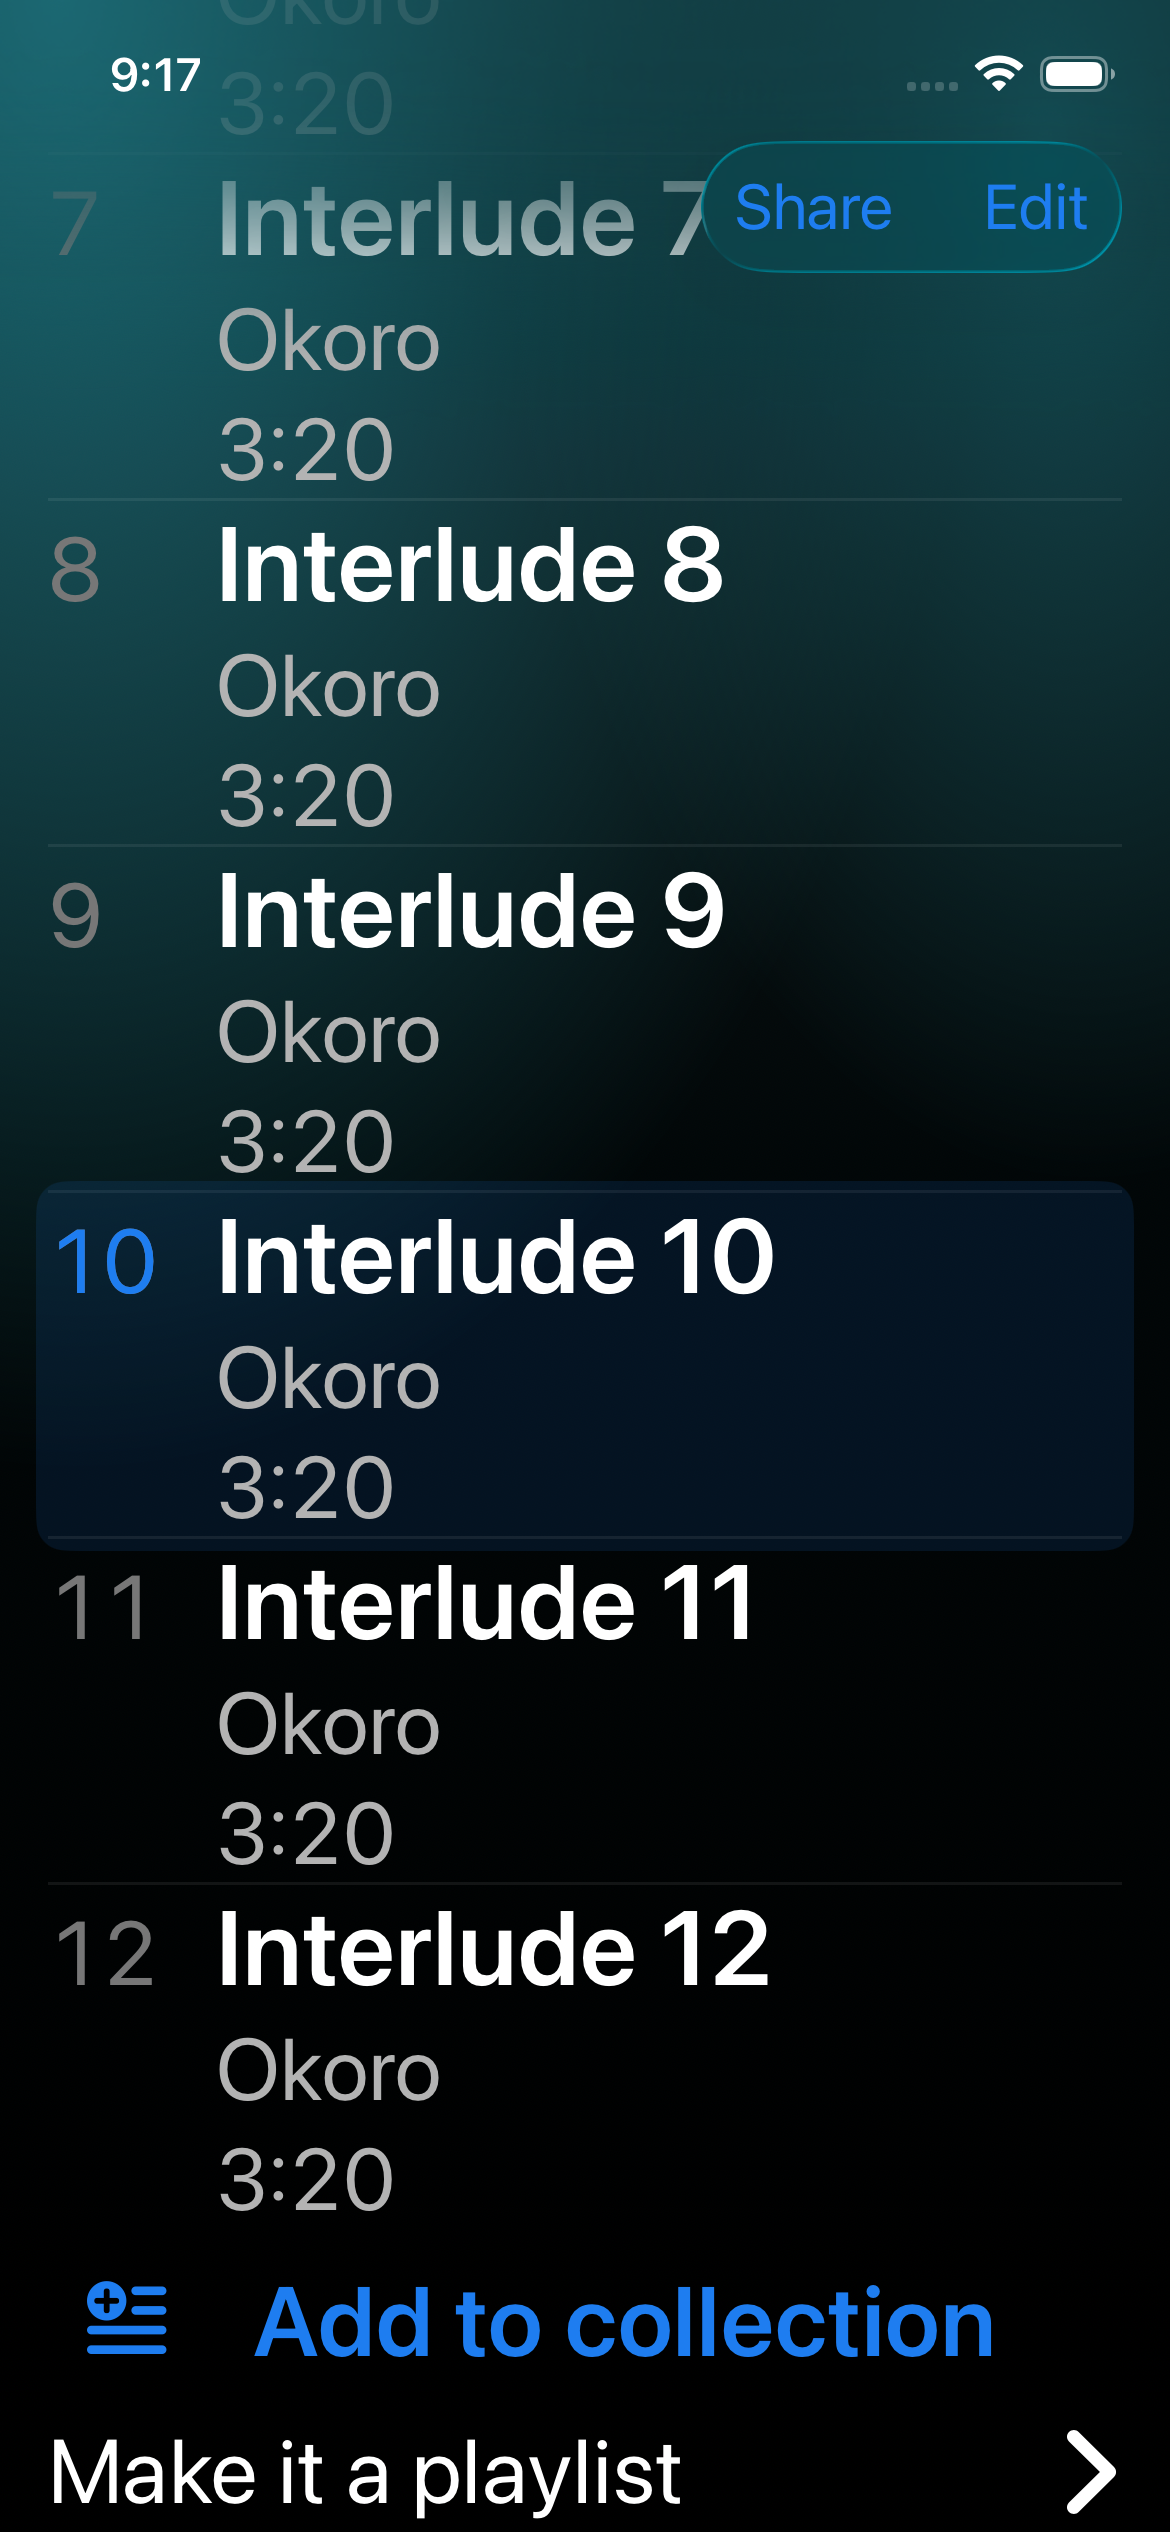
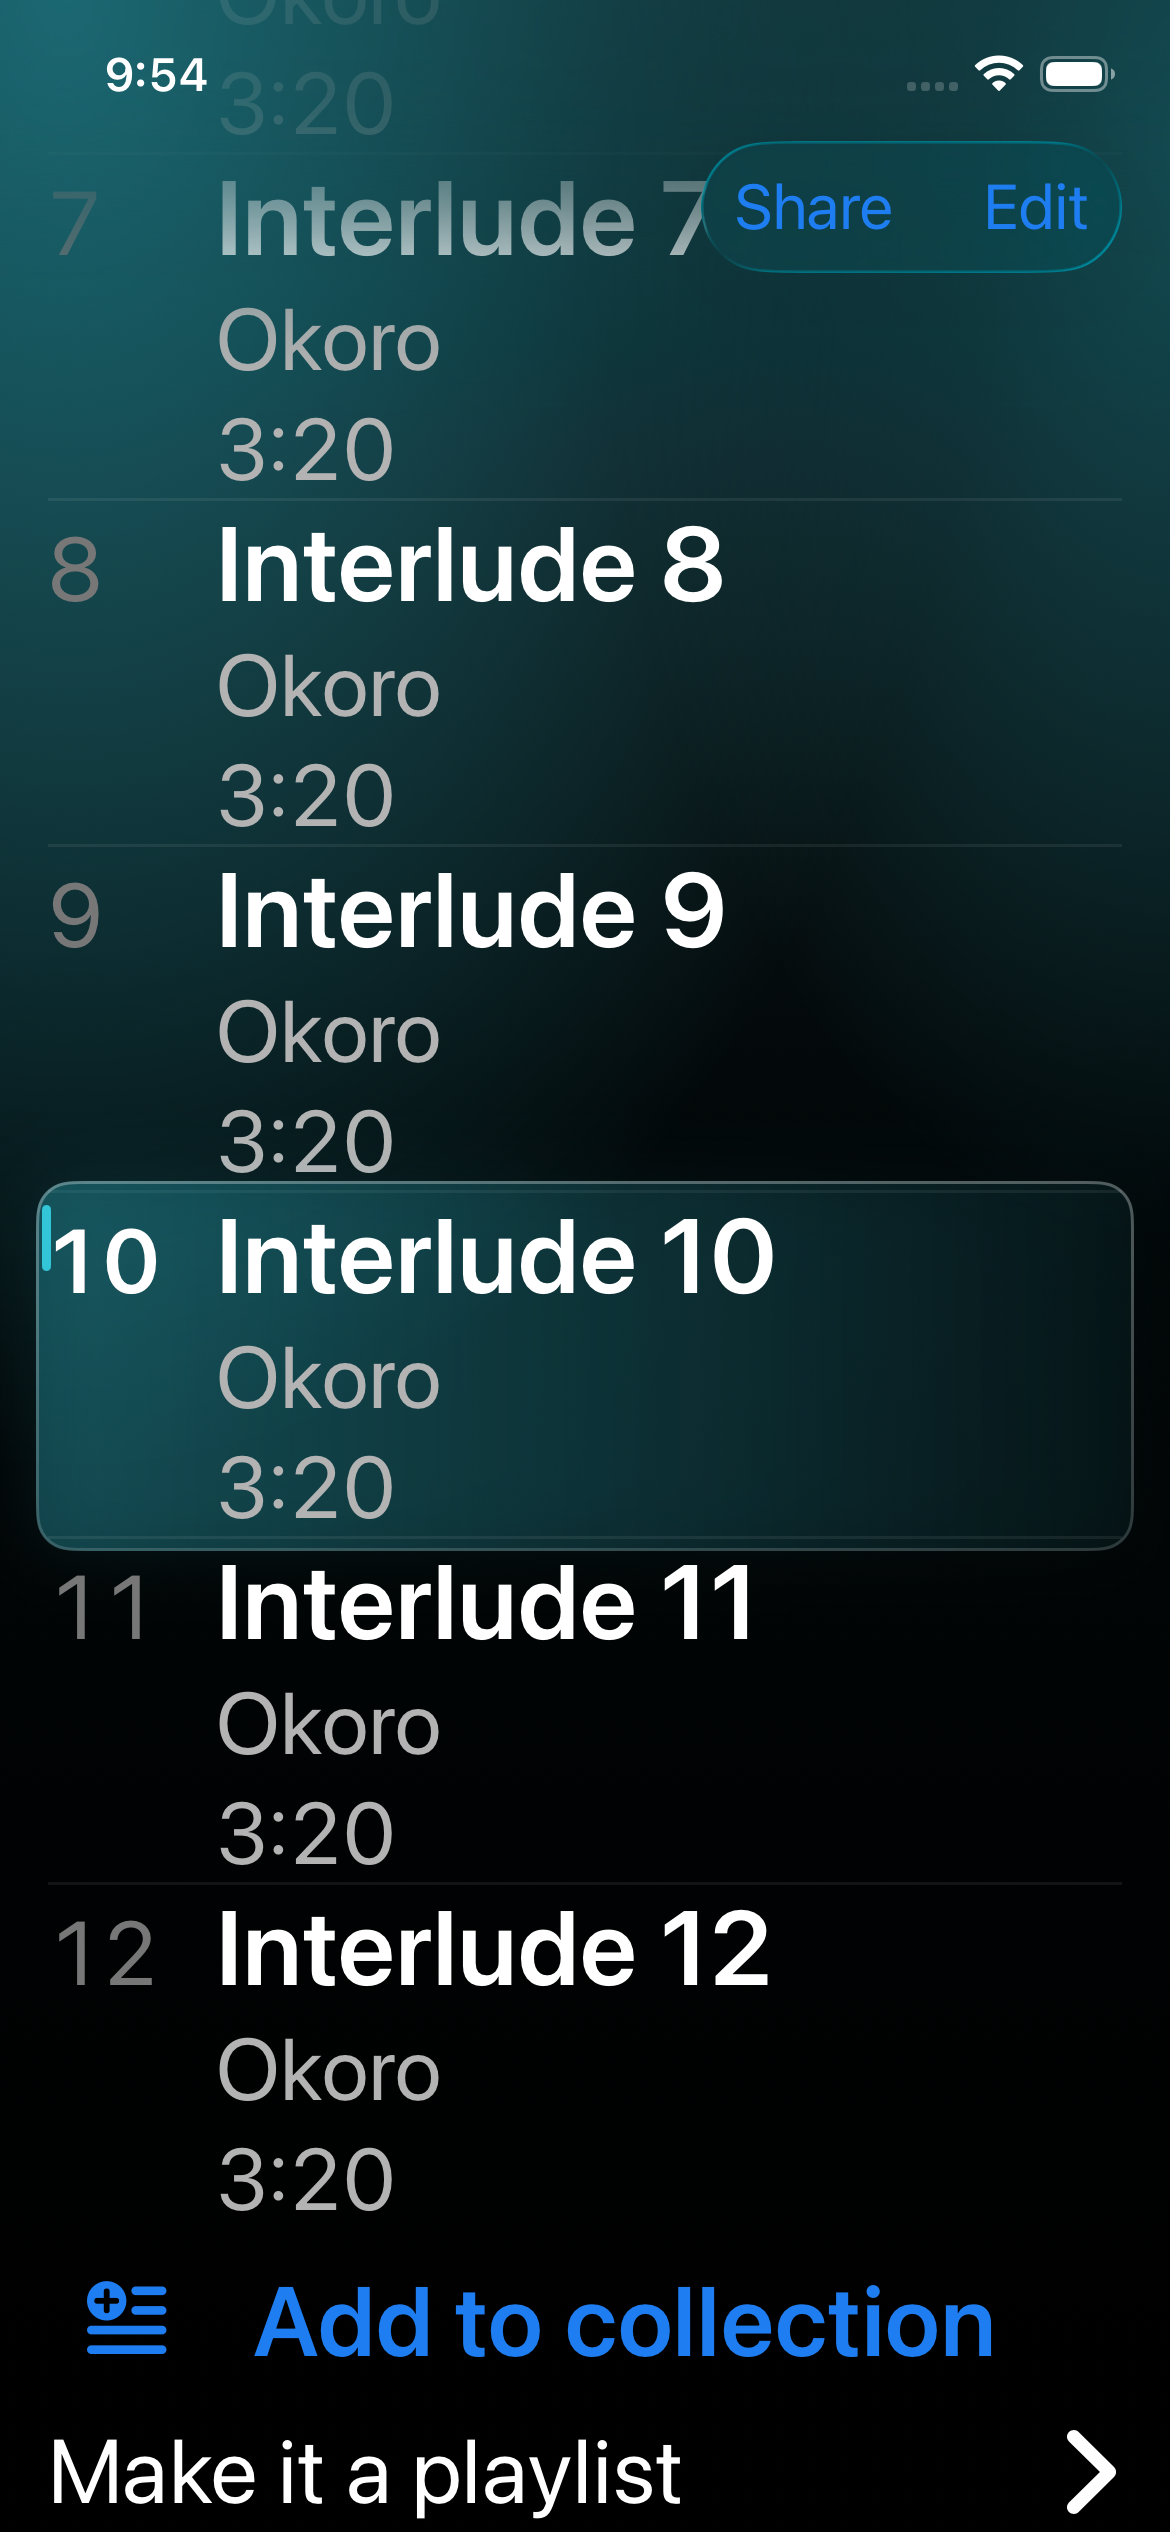
Track highlight: cover-colour glow wash with rim, glow and needle cue (#362)
Claude-Session: https://claude.ai/code/session_012sA8wJjj2BFG5nWg5W6h5h

Changed region(s): [[0.0308, 0.468, 0.6154, 0.624], [0.0923, 0.0, 0.1846, 0.0312]]

diff --git a/apps/ios/Locally/Views/Components/ComponentGallery.swift b/apps/ios/Locally/Views/Components/ComponentGallery.swift
@@ -35,7 +35,7 @@ struct ComponentGallery: View {
         "share-sheet", "share-sheet-link", "share-sheet-result", "share-sheet-signed-out", "share-sheet-large-text",
         "devices-tray-friends", "devices-tray-friends-large-text", "shared-by-you", "shared-by-you-large-text", "release-share-blocked",
         // #362: a release opened from one of its tracks, the row mid-highlight.
-        "release-track-highlight", "release-track-highlight-long", "release-track-highlight-ax", "release-track-plain-long", "stats-open-track",
+        "release-track-highlight", "release-track-highlight-long", "release-track-highlight-ax", "release-track-highlight-bright", "release-track-highlight-dark", "release-track-plain-long", "stats-open-track",
         // #350: collections in List view over seeded sample collections.
         "collections-library", "collections-screen", "collections-queue", "collections-edit", "collections-empty", "collections-queue-ax", "collections-add", "collections-playing", "collections-add-failed", "collections-wont-play", "collections-playlist-guide", "collections-none-here",
         // #352: the record player on the Collections screen, over seeded collections and a player on fakes.
@@ -59,7 +59,7 @@ struct ComponentGallery: View {
 
     /// The #160 screens draw their own backdrop.
     private var drawsOwnBackdrop: Bool {
-        name.hasPrefix("collections-") || name.hasPrefix("player-") || name.hasPrefix("stats-") || name.hasPrefix("icons-") || name.hasPrefix("devices-") || name.hasPrefix("share") || ["studio-backdrop", "settings-signed-in", "settings-signed-out", "settings-code-sent", "settings-scrolled", "root-banner", "release-tracks", "controls", "paywall", "onboarding", "library-empty", "crop-sheet", "release-featuring-view", "release-featuring-edit", "featuring-fields-ax", "artists-view", "artist-page", "artist-page-featured", "artist-page-bottom", "library-sort-menu", "release-links", "release-date-edit", "release-date-view", "release-date-sheet", "release-date-invalid", "release-date-xxxl", "release-date-ax", "release-date-ax5", "release-date-narrow", "release-date-save", "release-share-blocked", "release-track-highlight", "release-track-highlight-long", "release-track-highlight-ax", "release-track-plain-long"].contains(name)
+        name.hasPrefix("collections-") || name.hasPrefix("player-") || name.hasPrefix("stats-") || name.hasPrefix("icons-") || name.hasPrefix("devices-") || name.hasPrefix("share") || ["studio-backdrop", "settings-signed-in", "settings-signed-out", "settings-code-sent", "settings-scrolled", "root-banner", "release-tracks", "controls", "paywall", "onboarding", "library-empty", "crop-sheet", "release-featuring-view", "release-featuring-edit", "featuring-fields-ax", "artists-view", "artist-page", "artist-page-featured", "artist-page-bottom", "library-sort-menu", "release-links", "release-date-edit", "release-date-view", "release-date-sheet", "release-date-invalid", "release-date-xxxl", "release-date-ax", "release-date-ax5", "release-date-narrow", "release-date-save", "release-share-blocked", "release-track-highlight", "release-track-highlight-long", "release-track-highlight-ax", "release-track-highlight-bright", "release-track-highlight-dark", "release-track-plain-long"].contains(name)
     }
 
     var body: some View {
@@ -332,6 +332,10 @@ struct ComponentGallery: View {
             IconsGallery.highlightedRelease()
         case "release-track-highlight-long":
             IconsGallery.highlightedRelease(tracks: 12, track: 9)
+        case "release-track-highlight-bright":
+            IconsGallery.highlightedRelease(tracks: 12, track: 9, cover: [.systemYellow, .systemOrange, .systemYellow])
+        case "release-track-highlight-dark":
+            IconsGallery.highlightedRelease(tracks: 12, track: 9, cover: [UIColor(white: 0.04, alpha: 1), UIColor(white: 0.1, alpha: 1), .black])
         case "release-track-highlight-ax":
             IconsGallery.highlightedRelease(tracks: 12, track: 9).dynamicTypeSize(.accessibility3)
         case "release-track-plain-long":
@@ -1149,9 +1153,12 @@ extension IconsGallery {
 
     /// Tidelines opened from one of its tracks (#362), the wash held at full strength. `tracks` pads it to a
     /// long release so the scroll shows; a nil `track` is a plain push with no highlight.
-    static func highlightedRelease(tracks: Int? = nil, track: Int? = 2) -> some View {
-        let container = artistsContainer()
-        var release = artistsLibrarySeed.releases.first { $0.title == "Tidelines" } ?? StatsGallery.releases[0]
+    static func highlightedRelease(tracks: Int? = nil, track: Int? = 2, cover: [UIColor]? = nil) -> some View {
+        let seed = artistsLibrarySeed
+        var covers = seed.covers
+        var release = seed.releases.first { $0.title == "Tidelines" } ?? StatsGallery.releases[0]
+        if let cover { covers[release.id] = SampleArtwork.cover(cover, size: 360).pngData() ?? Data() }
+        let container = Self.container(releases: seed.releases, covers: covers, playStats: GalleryPlayStats(artistsPlays(seed.releases)))
         if let tracks, release.tracks.count < tracks {
             for n in release.tracks.count..<tracks {
                 release.tracks.append(Track(id: UUID(), title: "Interlude \(n + 1)", trackNumber: n + 1, filePath: "x\(n).mp3", originalName: "x\(n).mp3", durationSec: 200))

diff --git a/apps/ios/Locally/Views/Library/ReleaseDetailView.swift b/apps/ios/Locally/Views/Library/ReleaseDetailView.swift
@@ -374,11 +374,7 @@ struct ReleaseDetailView: View {
             )
             .background {
                 if row.id == highlightTrackID {
-                    RoundedRectangle(cornerRadius: Theme.Track.highlightCornerRadius)
-                        .fill(Theme.accent.opacity(Theme.Track.highlightOpacity))
-                        .opacity(highlight)
-                        .padding(.horizontal, -washBleed)
-                        .padding(.vertical, -4)
+                    trackHighlight(tint: highlightTint)
                 }
             }
             .id(row.id)
@@ -595,6 +591,42 @@ struct ReleaseDetailView: View {
 
     private var glowColors: [Color] { glowColorsFor(palette) }
 
+    /// The brightest of the cover's glow colours, or the accent with no cover (#362).
+    private var highlightTint: Color {
+        guard coverImage != nil, let base = glowColors.max(by: { UIColor($0).hsbBrightness < UIColor($1).hsbBrightness }) else { return Theme.accent }
+        // The palette colours are dark by design; lift the brightest to a glow, keeping its hue.
+        var h: CGFloat = 0, sat: CGFloat = 0, b: CGFloat = 0
+        UIColor(base).getHue(&h, saturation: &sat, brightness: &b, alpha: nil)
+        return Color(hue: h, saturation: sat, brightness: max(b, Theme.Track.highlightMinBrightness))
+    }
+
+    /// The glow behind the track a release was opened from: a fake-glass wash in the cover's colour, a rim,
+    /// a soft outer glow and a needle cue at the leading edge. Only opacity and the cue's scale animate.
+    private func trackHighlight(tint: Color) -> some View {
+        let shape = RoundedRectangle(cornerRadius: Theme.Track.highlightCornerRadius)
+        return ZStack(alignment: .leading) {
+            shape
+                .fill(LinearGradient(colors: [tint.opacity(Theme.Track.highlightLeading), tint.opacity(Theme.Track.highlightTrailing)], startPoint: .leading, endPoint: .trailing))
+                .shadow(color: tint.opacity(Theme.Track.highlightGlow), radius: Theme.Track.highlightGlowRadius)
+            shape.strokeBorder(
+                LinearGradient(colors: [.white.opacity(Theme.Track.highlightRimTop), .white.opacity(Theme.Track.highlightRim)], startPoint: .top, endPoint: .bottom),
+                lineWidth: 1
+            )
+            Capsule()
+                .fill(tint)
+                .frame(width: Theme.Track.cueWidth, height: Theme.Track.cueHeight)
+                .scaleEffect(y: reduceMotion ? 1 : Theme.Track.cueFromScale + (1 - Theme.Track.cueFromScale) * highlight)
+                .padding(.leading, 2)
+                .padding(.top, Theme.Track.cueTopInset)
+                .frame(maxHeight: .infinity, alignment: .top)
+        }
+        .opacity(highlight)
+        .padding(.horizontal, -washBleed)
+        .padding(.vertical, -4)
+        .allowsHitTesting(false)
+        .accessibilityHidden(true)
+    }
+
     private func featuringIndex(_ model: ReleaseDetailViewModel) -> Int? {
         model.featuringRowID.flatMap { id in model.trackRows.firstIndex { $0.id == id } }
     }
@@ -664,4 +696,12 @@ struct ShareTarget: Identifiable {
     let id = UUID()
     let trackId: UUID?
     let subject: String
+}
+
+private extension UIColor {
+    var hsbBrightness: CGFloat {
+        var b: CGFloat = 0
+        getHue(nil, saturation: nil, brightness: &b, alpha: nil)
+        return b
+    }
 }

diff --git a/apps/ios/Locally/Resources/Theme.swift b/apps/ios/Locally/Resources/Theme.swift
@@ -580,8 +580,21 @@ enum Theme {
         static let separatorOpacity: Double = 0.07
         static var separatorTint: Color { .white.opacity(separatorOpacity) }
         /// The wash behind the track a release was opened from (#362): the accent at this opacity.
-        static let highlightOpacity: Double = 0.12
-        static let highlightCornerRadius: CGFloat = 10
+        static let highlightCornerRadius: CGFloat = 12
+        /// The wash's gradient, leading to trailing, in the cover's brightest glow colour; the rim; the outer glow.
+        static let highlightLeading: Double = 0.30
+        static let highlightTrailing: Double = 0.06
+        static let highlightRimTop: Double = 0.30
+        static let highlightRim: Double = 0.16
+        static let highlightGlow: Double = 0.35
+        static let highlightGlowRadius: CGFloat = 12
+        /// Palette colours are dark, so the tint is lifted to at least this brightness.
+        static let highlightMinBrightness: Double = 0.85
+        /// The needle cue at the wash's leading edge: size, how far down the wash it starts, and its starting y scale.
+        static let cueWidth: CGFloat = 3
+        static let cueHeight: CGFloat = 22
+        static let cueTopInset: CGFloat = 8
+        static let cueFromScale: CGFloat = 0.2
         /// Seconds: the wait for the push to settle, the fade in, the hold, the fade out.
         static let highlightDelay: Double = 0.35
         static let highlightFadeIn: Double = 0.3

diff --git a/apps/ios/Locally/Views/Components/ReleaseViewMode.swift b/apps/ios/Locally/Views/Components/ReleaseViewMode.swift
@@ -186,7 +186,7 @@ struct ReleaseTrackRow: View {
     let timeSpoken: String?
     /// Set where the track can play: the number becomes a 44 pt play button.
     var play: TrackPlayControl?
-    /// 0 to 1: how far the number has turned the accent colour (#362). Opacity only.
+    /// 0 to 1: how far the number has turned white (#362). Opacity only.
     var highlight: Double = 0
 
     @Environment(\.dynamicTypeSize) private var dynamicTypeSize
@@ -289,11 +289,11 @@ struct ReleaseTrackRow: View {
         }
     }
 
-    /// The number again in the accent, faded in over the dim one while the row is highlighted.
+    /// The number again in white semibold, faded in over the dim one while the row is highlighted.
     private var accentNumber: some View {
         Text("\(number)")
-            .font(.system(size: numberSize).monospacedDigit())
-            .foregroundStyle(Theme.accent)
+            .font(.system(size: numberSize, weight: .semibold).monospacedDigit())
+            .foregroundStyle(.white)
             .opacity(highlight)
             .fixedSize()
             .accessibilityHidden(true)

diff --git a/docs/design.md b/docs/design.md
@@ -619,8 +619,11 @@ eyebrows still apply to those labels.
   - **Activation**: a sleeve, list row and grid tile is a button. A sleeve first plays a short
     opening beat (360ms: the record slides further out, the sleeve lifts and grows a little; none
     under reduced motion, which opens at once), then the release opens. A track opens its release
-    scrolled to that track's row (centred) with a one-time soft tint on the row (about 1.6s; shown
-    still for 2s under reduced motion); list rows and tiles do the same without the beat. An album
+    scrolled to that track's row (centred) with a one-time glow in the release's own cover colour on the
+    row (iPhone, #362: its brightest palette colour lifted to at least 0.85 brightness, a 12 pt-radius wash
+    from 30 % at the leading edge to 6 %, a 1 pt rim brighter on top, a soft outer glow, a 3 x 22 pt needle
+    cue at the leading edge that grows in, and the number turning white semibold; accent when there is no
+    cover; only opacity and the cue's scale animate; about 1.6s; shown still for 2s under reduced motion); list rows and tiles do the same without the beat. An album
     opens its release with no highlight; an artist opens the Library filtered to that artist (its search
     query). A mouse only lifts on hover. On touch the first tap lifts and the second opens; a tap
     elsewhere drops the lift. Visible focus rings (2px white; the shelf keeps its accent ring).
